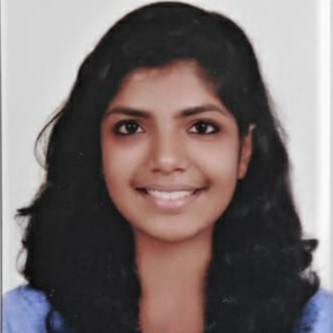
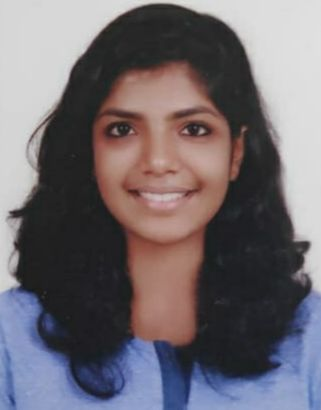
fixes

diff --git a/talks.html b/talks.html
@@ -185,7 +185,7 @@
           <div class="col-xl-4 col-lg-4 col-md-6 col-sm-6">
             <div class="single-team">
               <div class="team-image">
-                <img src="img_upload/speakers/4.jpeg" alt="">
+                <img src="img_upload/speakers/8.jpeg" alt="">
                 <div class="team-content">
                   <div class="team-social">
                     <ul>                      
